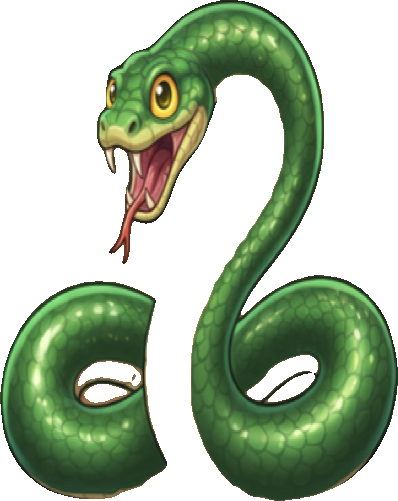
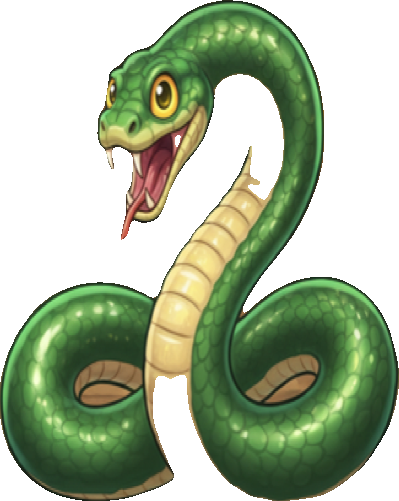
Fix snake and bat sprite extraction, drop floating doorway posts in the iso view, keep the HUD top bar on-screen on narrow phones
- extract-sprites.py: per-sprite overrides (u2net for the snake whose coils
  the default model cut; a purple-hue filter for the bat swarm where every
  model kept the dark cave centre); both sprites regenerated.
- Isometric: the doorway post sprites at s/e openings looked like
  semi-transparent rectangles floating at the chamber corners; removed.
- HUD: narrow-phone rule hides the name and shrinks buttons so the close
  button is not clipped.

diff --git a/www/js/proto/iso-scenes.js b/www/js/proto/iso-scenes.js
@@ -268,19 +268,13 @@ var IsoScenes = (function() {
           bucket.push(self.add.image(p.x, p.y, 'arch_w').setOrigin(0.5, 1).setDepth(wallDepth));
         }
 
-        // Front rims (s / e): low parapet, or doorway posts at an opening
+        // Front rims (s / e): low parapet; openings toward a corridor stay clear
         var frontDepth = IsoModel.depthKey(t.gx, t.gy, LAYERS.fx) - 0.5;
         if (t.walls.indexOf('s') !== -1) {
           bucket.push(self.add.image(p.x, p.y + 14, 'rim_s').setDepth(frontDepth));
-        } else if (t.kind === 'floor' && self.opensTo(t, 's')) {
-          bucket.push(self.add.image(p.x - 56, p.y + 6, 'post').setOrigin(0.5, 1).setDepth(frontDepth));
-          bucket.push(self.add.image(p.x - 6, p.y + 30, 'post').setOrigin(0.5, 1).setDepth(frontDepth));
         }
         if (t.walls.indexOf('e') !== -1) {
           bucket.push(self.add.image(p.x, p.y + 14, 'rim_e').setDepth(frontDepth));
-        } else if (t.kind === 'floor' && self.opensTo(t, 'e')) {
-          bucket.push(self.add.image(p.x + 56, p.y + 6, 'post').setOrigin(0.5, 1).setDepth(frontDepth));
-          bucket.push(self.add.image(p.x + 6, p.y + 30, 'post').setOrigin(0.5, 1).setDepth(frontDepth));
         }
       });
 

diff --git a/www/css/proto-hud.css b/www/css/proto-hud.css
@@ -410,6 +410,18 @@ body.proto .sfx-toggle {
   overflow: hidden;
 }
 
+/* Narrow phones: the top bar must not overflow */
+@media (max-width: 420px) {
+  .hud-top { gap: 6px; padding-left: 6px; padding-right: 6px; }
+  .hud-name { display: none; }
+  .hud-stats { gap: 6px; }
+  .hud-stat { font-size: 0.85rem; }
+  .hud-stat .hud-icon { width: 18px; height: 18px; }
+  .hud-iconbtns { gap: 4px; }
+  .hud-iconbtns .hud-btn, body.proto .sfx-toggle { width: 36px; height: 36px; font-size: 1rem; }
+  .hud-portrait { width: 38px; height: 38px; }
+}
+
 /* Short portrait phones: drop the hint text */
 @media (max-height: 700px) {
   .hud-dock-note { display: none; }

diff --git a/tools/extract-sprites.py b/tools/extract-sprites.py
@@ -24,6 +24,43 @@ SRC = ROOT / 'www' / 'assets'
 DST = SRC / 'proto' / 'monsters'
 SKIP = {'placeholder', 'start', 'victory'}
 
+# Per-sprite overrides where the default model (isnet-general-use) fails:
+# - giant_snake: isnet drops the coils crossing the dark background; u2net keeps them
+# - bat_swarm: every model keeps the dark cave centre as "subject"; a hue filter
+#   that rejects the teal/blue cave colours and keeps the purple/pink bats works
+MODEL_OVERRIDE = {'giant_snake': 'u2net'}
+FILTER_OVERRIDE = {'bat_swarm': 'hue_purple'}
+
+
+def hue_purple_cutout(img):
+    """Keep purple/pink/grey-pink pixels (bats), drop teal/blue and near-black (cave)."""
+    import numpy as np
+    from scipy import ndimage
+    rgb = np.asarray(img.convert('RGBA')).astype(np.float32) / 255.0
+    r, g, b = rgb[..., 0], rgb[..., 1], rgb[..., 2]
+    mx = rgb[..., :3].max(-1)
+    mn = rgb[..., :3].min(-1)
+    d = mx - mn + 1e-6
+    h = np.zeros_like(mx)
+    h = np.where(mx == r, ((g - b) / d) % 6, h)
+    h = np.where(mx == g, (b - r) / d + 2, h)
+    h = np.where(mx == b, (r - g) / d + 4, h)
+    h = (h * 60) % 360
+    sat = np.where(mx > 0, d / (mx + 1e-6), 0)
+    cave = ((h > 150) & (h < 245)) | (mx < 0.16) | ((sat < 0.12) & (mx < 0.45))
+    keep = ~cave
+    keep = ndimage.binary_opening(keep, iterations=1)
+    keep = ndimage.binary_closing(keep, iterations=2)
+    labels, n = ndimage.label(keep)
+    sizes = ndimage.sum(keep, labels, range(1, n + 1))
+    big = [i + 1 for i, sz in enumerate(sizes) if sz > 350]
+    keep = np.isin(labels, big)
+    alpha = ndimage.binary_dilation(keep, iterations=2).astype(np.float32)
+    alpha = ndimage.gaussian_filter(alpha, 1.0)
+    out = np.dstack([rgb[..., :3], alpha])
+    return Image.fromarray((out * 255).astype(np.uint8), 'RGBA')
+
+
 
 def main():
     ap = argparse.ArgumentParser()
@@ -33,7 +70,12 @@ def main():
     args = ap.parse_args()
 
     from rembg import remove, new_session
-    session = new_session(args.model)
+    sessions = {}
+
+    def session_for(model):
+        if model not in sessions:
+            sessions[model] = new_session(model)
+        return sessions[model]
 
     only = set(filter(None, args.only.split(',')))
     files = sorted(p for p in SRC.glob('*.png') if p.stem not in SKIP)
@@ -48,7 +90,11 @@ def main():
             index = json.load(f)   # merge so --only runs keep the other entries
     for path in files:
         img = Image.open(path).convert('RGBA')
-        cut = remove(img, session=session, post_process_mask=True)
+        if FILTER_OVERRIDE.get(path.stem) == 'hue_purple':
+            cut = hue_purple_cutout(img)
+        else:
+            model = MODEL_OVERRIDE.get(path.stem, args.model)
+            cut = remove(img, session=session_for(model), post_process_mask=True)
         bbox = cut.getbbox()
         if not bbox:
             print('no subject found:', path.name, file=sys.stderr)
